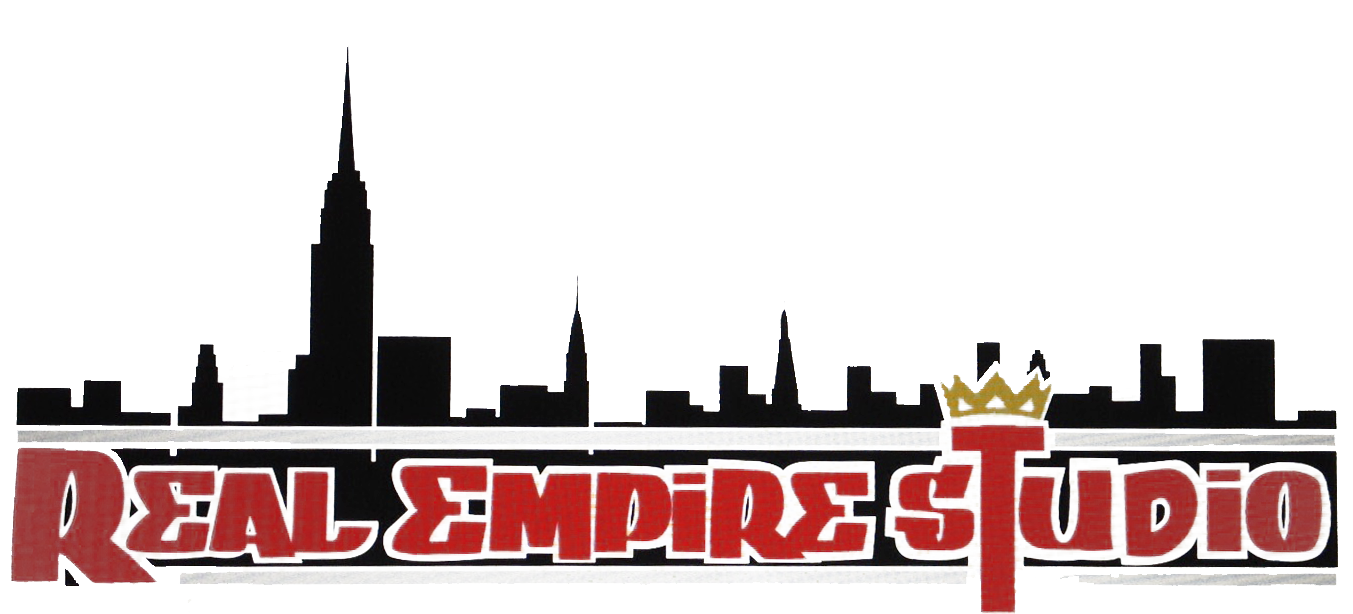
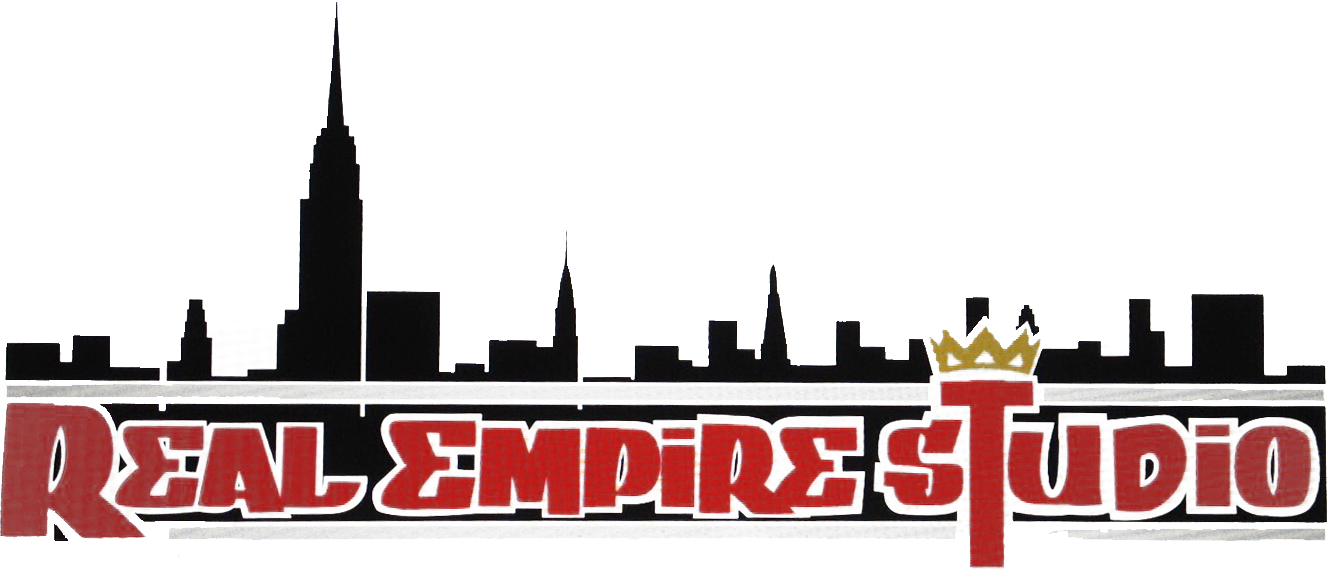
landing page changes

Changed region(s): [[0.0, 0.0598, 1.0, 1.0], [0.4017, 0.478, 0.4326, 0.5677]]

diff --git a/templates/index.html b/templates/index.html
@@ -1,4 +1,5 @@
 {% extends "base.html" %}
+{% load static %}
 
 {% block title %}
 	Titulo de la pagina
@@ -13,8 +14,8 @@
                 </button>
                 <a class="navbar-brand" href="#page-top">
                  <!-- <span class="light">Real Empire Studio</span> -->
-                 <img src="{% static "img/realempire.png" %}" alt="">
-                </a>
+<!--                  <img id="real-empire-image" src="{% static "img/realempire2.png" %}" alt="" />
+ -->                </a>
             </div>
 
             <!-- Collect the nav links, forms, and other content for toggling -->
@@ -25,13 +26,16 @@
                         <a href="#page-top"></a>
                     </li>
                     <li class="page-scroll">
-                        <a href="#about">Who we are</a>
+                        <a href="#about">Quienes somos</a>
                     </li>
                     <li class="page-scroll">
-                        <a href="#contact">Classes</a>
+                        <a href="#contact">Clases</a>
+                    </li>
+                      <li class="page-scroll">
+                        <a href="#contact">Precios</a>
                     </li>
                     <li class="page-scroll">
-                        <a href="#download">About Us</a>
+                        <a href="#download">Sobre Nosotros</a>
                     </li>
                     
                 </ul>
@@ -46,14 +50,42 @@
             <div class="container " >
                 <div class="row">
                     <div class="col-md-8 col-md-offset-2" id="first-container">
-                        <h3 class="brand-heading">Problems in the highway?
-                        </h3>
-                        <p class="intro-text">Find the nearest tire place from your location</p>
-                        <div class="page-scroll">
+                        <!-- <h3 class="brand-heading">Real Empire Studio</h3> -->
+                        <img id="real-empire-image" src="{% static "img/realempire2.png" %}" alt="" />
+
+                        <p class="intro-text">Academia de baile localizada en Bayamón <br>Te invitamos a nuestra gran apertura el <br><u>10 de octubre de 2015</u></p>
+                       
+                         <header>
+                        <!-- HEADLINE -->
+                        </header>
+                    <!-- START TIMER -->
+                        <div id="timer" data-animated="FadeIn">
+                            <p id="message"></p>
+                            <div id="days" class="timer_box"></div>
+                            <div id="hours" class="timer_box"></div>
+                            <div id="minutes" class="timer_box"></div>
+                            <div id="seconds" class="timer_box"></div>
+                        </div>
+                        <!-- END TIMER -->
+                        
+                            <div class="text-center">
+                                 <p>Mantengase al tanto!</p>
+                                    <div class="col-md-12">
+                                         <form action="{% url 'landing' %}" method="post">
+                                            {% csrf_token %}
+                                          <div class="input-group">
+                                             <input class="btn btn-lg" name="email" id="email" type="email" placeholder="Your Email" required>
+                                             <button class="btn btn-info btn-lg" type="submit">Subscribete</button>
+                                          </div>
+                                         </form>
+                                    </div>
+                                </div>
+                        </div>
+                       <!--  <div class="page-scroll">
                             <a  id = 'arrow'href="#about" class="btn btn-circle">
                                 <i class="fa fa-angle-double-down animated"></i>
                             </a>
-                        </div>
+                        </div> -->
                     </div>
                 </div>
             </div>
@@ -117,3 +149,7 @@
 </section>
 
 {% endblock content %}
+
+{% block extra_bottom %}
+    <script type="text/javascript" src="{% static 'js/landing/custom.js'%}"></script>
+{% endblock %}

diff --git a/static/css/geo_tire.css b/static/css/geo_tire.css
@@ -45,5 +45,100 @@
         height: 600px;
         float:left;
     }
+
+    .navbar-brand{
+        padding:0px !important;
+    }
      
-      
+    #real-empire-image{
+        width: 400px;
+          }
+
+    .navbar-custom{
+        /*padding-top: 0px;*/
+    }
+
+
+   input.btn.btn-lg, input.btn.btn-lg:focus {
+    outline: none;
+    width: 60%;
+    height: 40px !important;
+    border-top-right-radius: 0;
+    border-bottom-right-radius: 0;
+    background-color: rgba(255,255,255,0.1) !important;
+    /*border: 1px solid  #46b8da;*/
+    border: 1px solid rgba(255,255,255,.5) !important;
+    color: white !important;
+    cursor: text;
+}
+
+#email:-webkit-input-placeholder {
+   color: rgba(255,255,255,0.1) !important;
+
+}
+
+input.btn.btn-lg:-moz-placeholder { /* Firefox 18- */
+   color: rgba(255,255,255,0.6) !important;
+}
+
+input.btn.btn-lg::-moz-placeholder {  /* Firefox 19+ */
+   color: rgba(255,255,255,0.6) !important;
+}
+
+input.btn.btn-lg:-ms-input-placeholder {  
+   color: rgba(255,255,255,0.6) !important;
+}
+
+button.btn {
+    width: 40%;
+    height: 40px !important;
+    border-top-left-radius: 0;
+    border-bottom-left-radius: 0;
+    background-color: rgba(255,255,255,0.5) !important;
+    border-right: 1px solid rgba(255,255,255,.5) !important;
+    border-bottom: 1px solid rgba(255,255,255,.5) !important;
+    border-top: 1px solid rgba(255,255,255,.5) !important;
+    border-left:none;
+
+}
+
+.input-group {
+    margin: 2px auto !important;
+    width: 100%;
+}
+
+
+
+.nav.navbar-nav{
+   display: block !important;
+    width: 58%;
+    margin: 0 auto;
+    float: none !important;
+}
+
+.navbar-main-collapse{
+    display: block !important;
+    float: none !important;
+    display: inline-block !important;
+    width: 100% !important;
+    margin-right: none;
+    margin-left: none; 
+}
+
+.timer_box{
+    margin: 26px 5px;
+    display: inline-block;
+    padding: 0px 10px 9px 10px;
+    text-align: center;
+    width: 117px;
+    border-radius: 50%;
+    border: 4px solid rgba(255, 255, 255, .6);
+}
+
+.timer_box>h2{
+    margin-bottom: 0;
+}
+
+#first-container{
+    padding-top: 50px;
+}

diff --git a/static/js/landing/custom.js b/static/js/landing/custom.js
@@ -20,30 +20,30 @@ COMMING SOON PAGE
     function setDate(){
         var now = new Date();
         if( launch < now ){
-            days.html('<h1>0</H1><p>Day</p>');
-            hours.html('<h1>0</h1><p>Hour</p>');
-            minutes.html('<h1>0</h1><p>Minute</p>');
-            seconds.html('<h1>0</h1><p>Second</p>');
-            message.html('OUR SITE IS NOT READY YET...');
+            days.html('<h2>0</h2><p>Día</p>');
+            hours.html('<h2>0</h2><p>Hora</p>');
+            minutes.html('<h2>0</h2><p>Minuto</p>');
+            seconds.html('<h2>0</h2><p>Segundo</p>');
+            // message.html('Mantengase al tanto!');
         }
         else{
             var s = -now.getTimezoneOffset()*60 + (launch.getTime() - now.getTime())/1000;
             var d = Math.floor(s/86400);
-            days.html('<h1>'+d+'</h1><p>Day'+(d>1?'s':''),'</p>');
+            days.html('<h2>'+d+'</h2><p>Día'+(d>1?'s':''),'</p>');
             s -= d*86400;
 
             var h = Math.floor(s/3600);
-            hours.html('<h1>'+h+'</h1><p>Hour'+(h>1?'s':''),'</p>');
+            hours.html('<h2>'+h+'</h2><p>Hora'+(h>1?'s':''),'</p>');
             s -= h*3600;
 
             var m = Math.floor(s/60);
-            minutes.html('<h1>'+m+'</h1><p>Minute'+(m>1?'s':''),'</p>');
+            minutes.html('<h2>'+m+'</h2><p>Minuto'+(m>1?'s':''),'</p>');
 
             s = Math.floor(s-m*60);
-            seconds.html('<h1>'+s+'</h1><p>Second'+(s>1?'s':''),'</p>');
+            seconds.html('<h2>'+s+'</h2><p>Segundo'+(s>1?'s':''),'</p>');
             setTimeout(setDate, 1000);
 
-            message.html('OUR SITE IS NOT READY YET, BUT WE ARE COMING SOON');
+            // message.html('MAntengase al tanto!');
         }
     }
 })(jQuery);

diff --git a/templates/base.html b/templates/base.html
@@ -1,3 +1,5 @@
+{% load static %}
+
 <!DOCTYPE html>
 <html lang="en">
 
@@ -21,6 +23,7 @@
     <link href="/static/css/grayscale.css" rel="stylesheet">
     <link rel="stylesheet" href="/static/css/geo_tire.css">
     <link href="http://netdna.bootstrapcdn.com/bootstrap/3.0.3/css/bootstrap.min.css" rel="stylesheet" type="text/css">
+    <link rel="stylesheet" href="{% static 'css/landing.css' %}">
 
 
     
@@ -37,6 +40,8 @@
     <!--<script src="https://maps.googleapis.com/maps/api/js?v=3.exp&sensor=true"></script>
     <script src="/../static/js/map.js"></script>-->
    
+    {% block extra_bottom %}
+    {% endblock %}
 </body>
 
 </html>

diff --git a/static/css/landing.css b/static/css/landing.css
@@ -13,11 +13,11 @@ body{
     padding: 80px 0;
 }
 .timer_box{
-    margin: 35px 24px;
+    margin: 26px 5px;
     display: inline-block;
-    padding: 20px 12px 0px 12px;
+    padding: -2px 10px 0px 10px;
     text-align: center;
-    width: 130px;
+    width: 117px;
     border-radius: 50%;
     border: 4px solid rgba(255, 255, 255, .6);
 }

diff --git a/static/css/bootstrap.css b/static/css/bootstrap.css
@@ -3746,7 +3746,7 @@ select[multiple].input-group-sm > .input-group-btn > .btn {
 .navbar-brand {
   float: left;
   height: 20px;
-  padding: 15px 15px;
+  /*padding: 15px 15px;*/
   font-size: 18px;
   line-height: 20px;
 }

diff --git a/static/css/grayscale.css b/static/css/grayscale.css
@@ -154,7 +154,7 @@ a:focus {
     }
 
     .brand-heading {
-        font-size: 75px;
+        font-size: 50px;
     }
 
     .intro-text {
